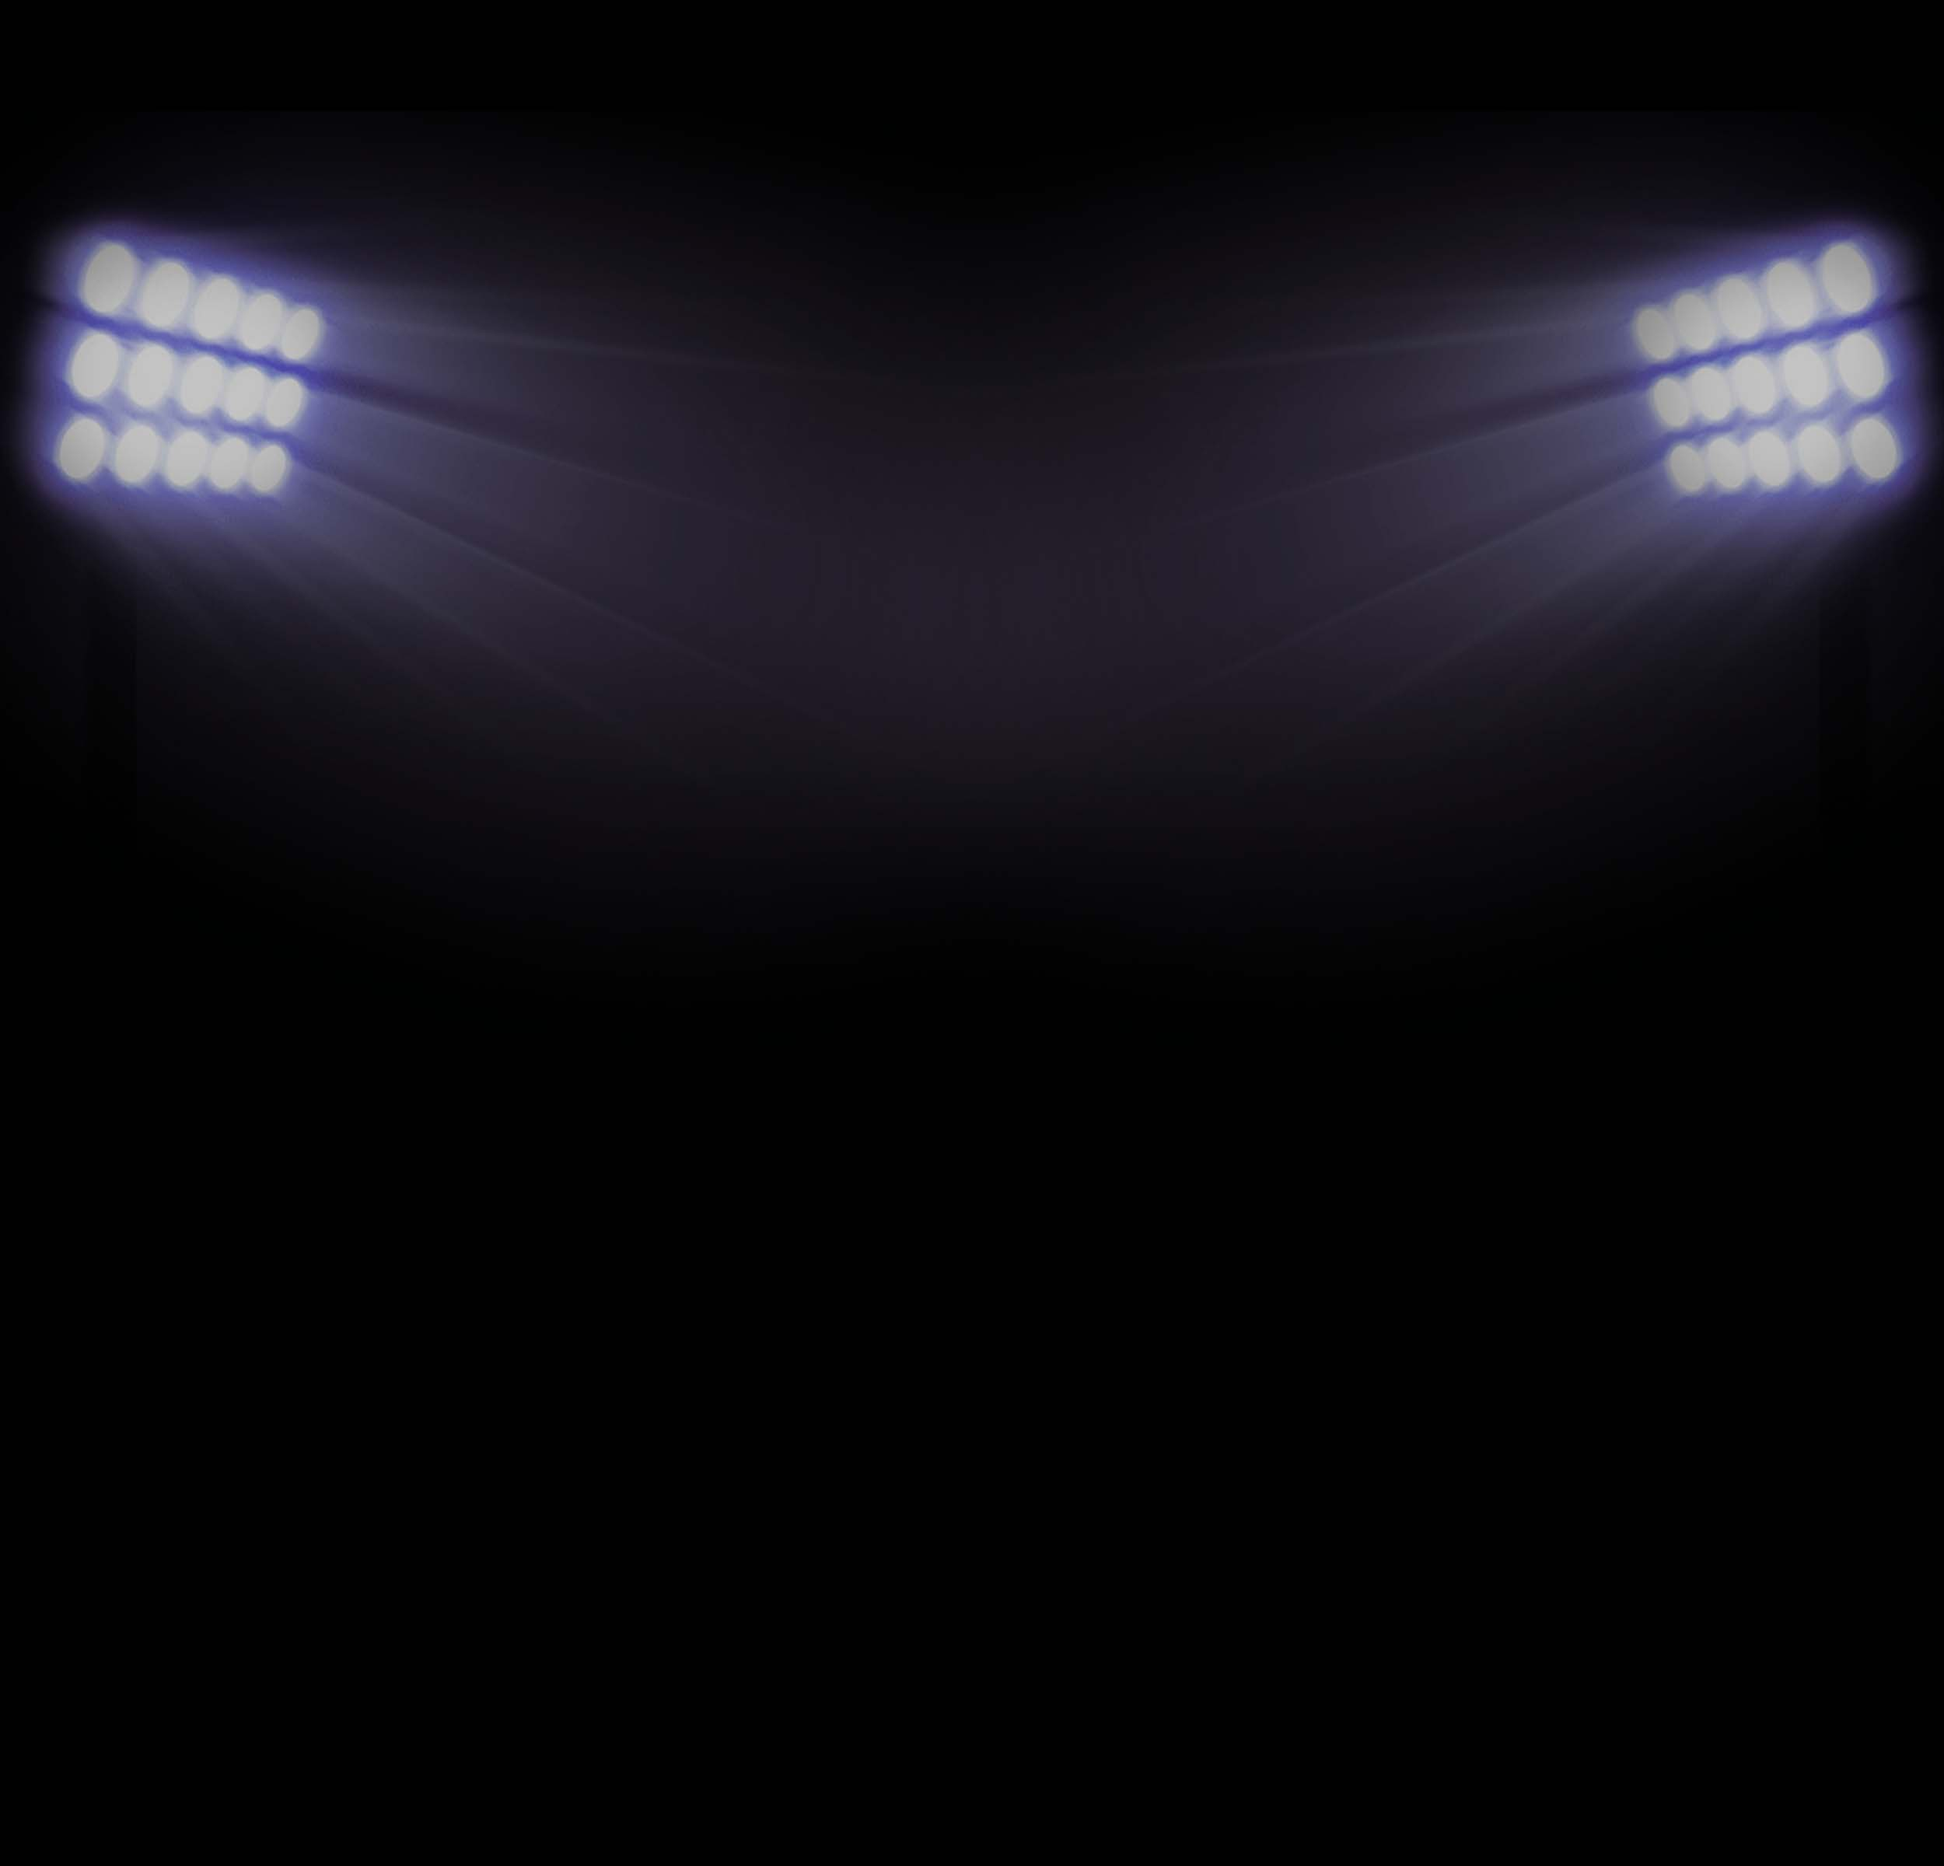
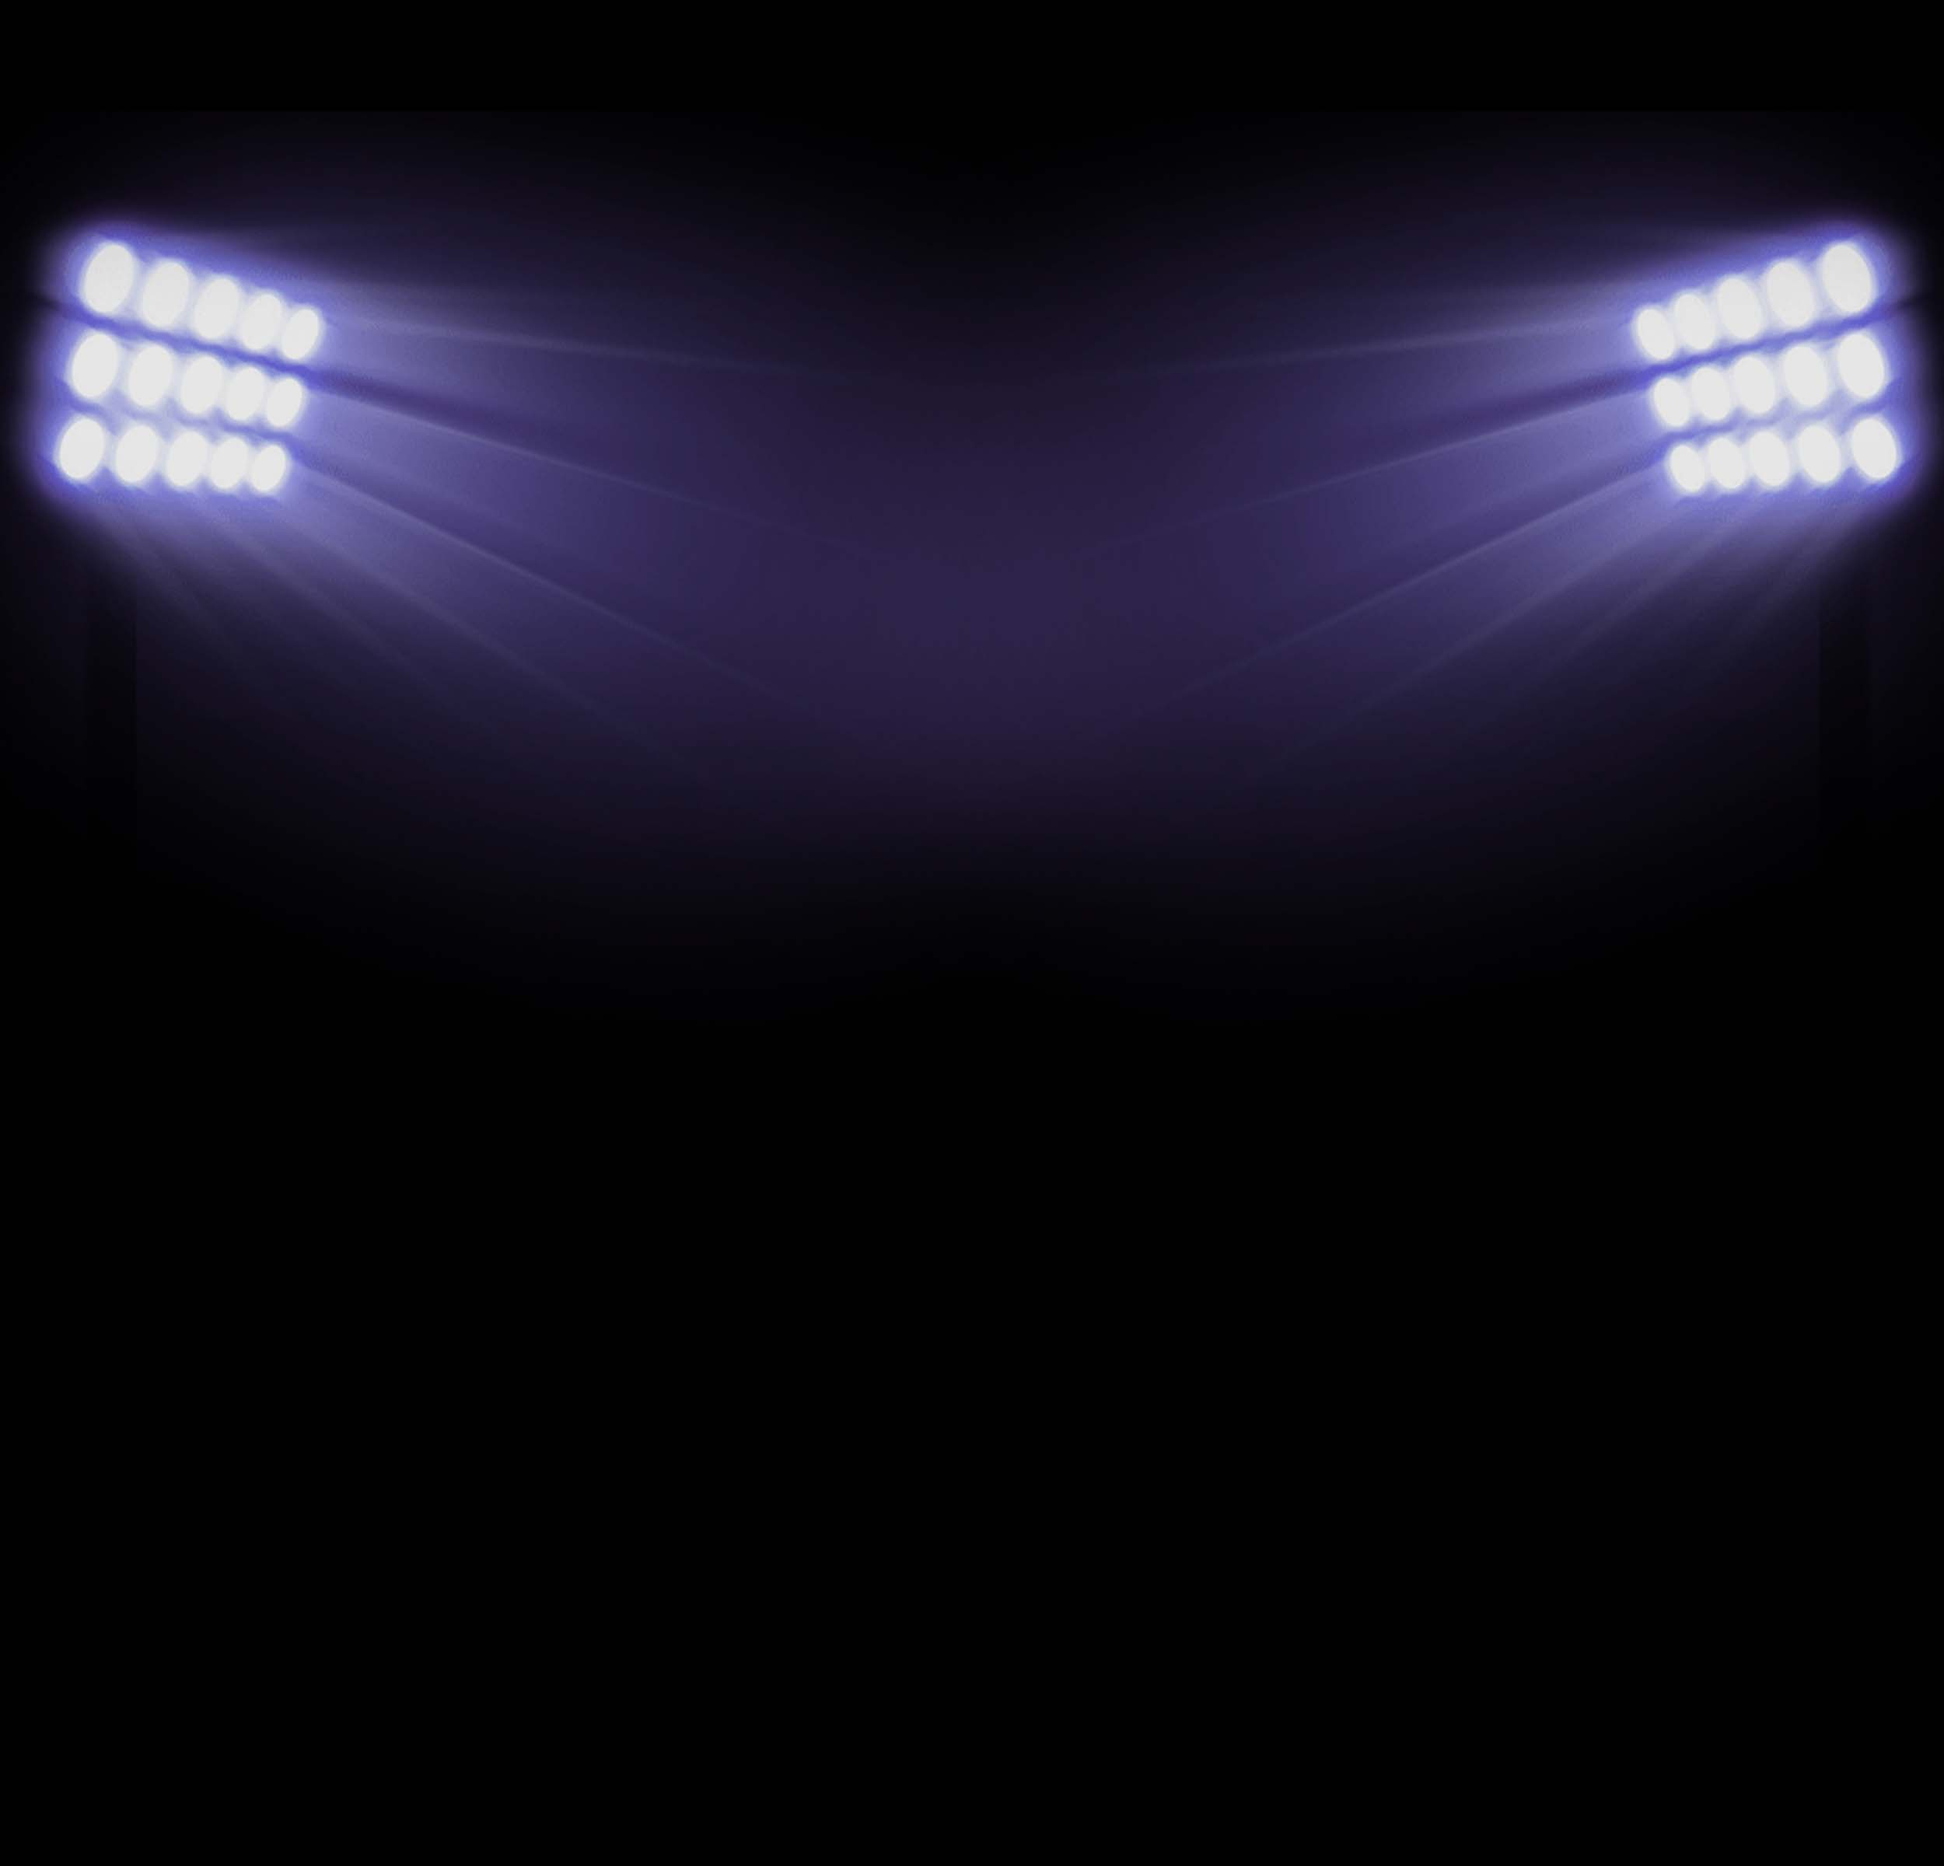
.

Changed region(s): [[0.0, 0.0938, 0.9984, 0.4062]]

diff --git a/src/components/homePrincipal/main/presentCryptoCup/presentScroll.js b/src/components/homePrincipal/main/presentCryptoCup/presentScroll.js
@@ -11,8 +11,20 @@ const tournamentScroll = () =>{
         gsap.registerPlugin(ScrollTrigger); 
 
 
+        gsap.from(".backPresentacion",{
+            opacity:0,
+            duration:3,
+            scrollTrigger:{
+                trigger: ".boxTournament",
+                start: "top center",
+                end: "bottom bottom",
+            }
+        })
+    
+
         gsap.from(".tournamentTitle",{
             opacity:0,
+            delay:.3,
             scale:1.5,
             duration:.5,
             scrollTrigger:{

diff --git a/src/components/homePrincipal/main/tikets/tiketsScroll.js b/src/components/homePrincipal/main/tikets/tiketsScroll.js
@@ -10,6 +10,19 @@ const tiketsScroll = () =>{
     if (!isMobile()) {
 
         gsap.registerPlugin(ScrollTrigger);
+        
+
+        gsap.from(".backTikets",{
+            opacity:0,
+            y:200,
+            x:-200,
+            duration:2,
+            scrollTrigger:{
+                trigger: ".containerTikets",
+                start: "top center",
+                end: "bottom bottom",
+            }
+        })
 
 
         gsap.from(".tiketsTitle",{

diff --git a/src/components/homePrincipal/main/presentCryptoCup/present.css b/src/components/homePrincipal/main/presentCryptoCup/present.css
@@ -27,8 +27,8 @@
     width: 100%;
     position: absolute;
     object-fit: cover;
-    filter: contrast(120%) brightness(100%);
-    opacity: .5;
+    filter: contrast(115%) brightness(105%);
+    opacity: .45;
 } 
 
 .boxTournament{
